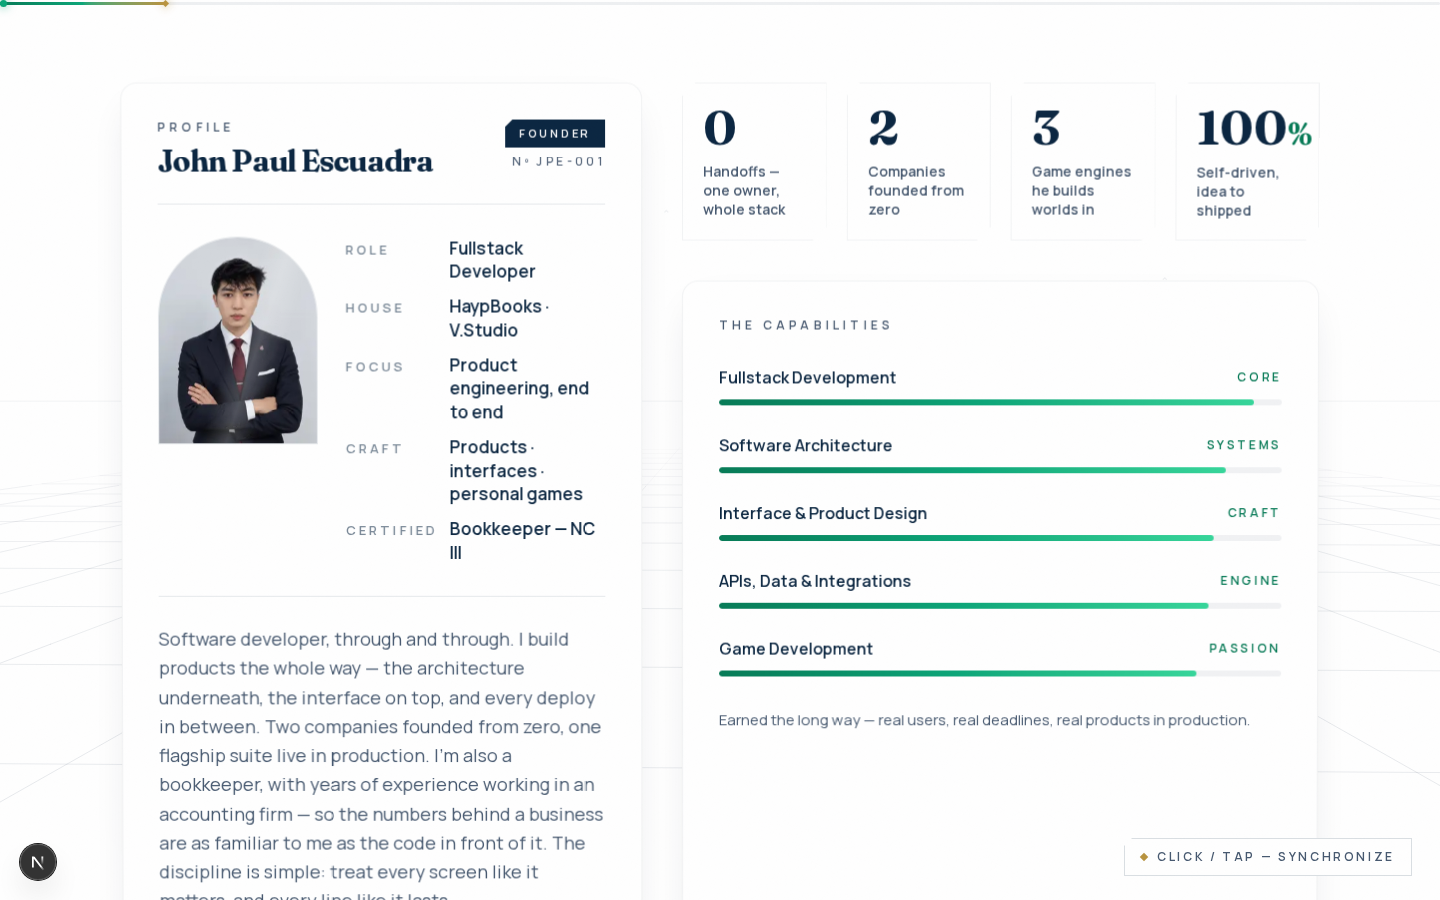
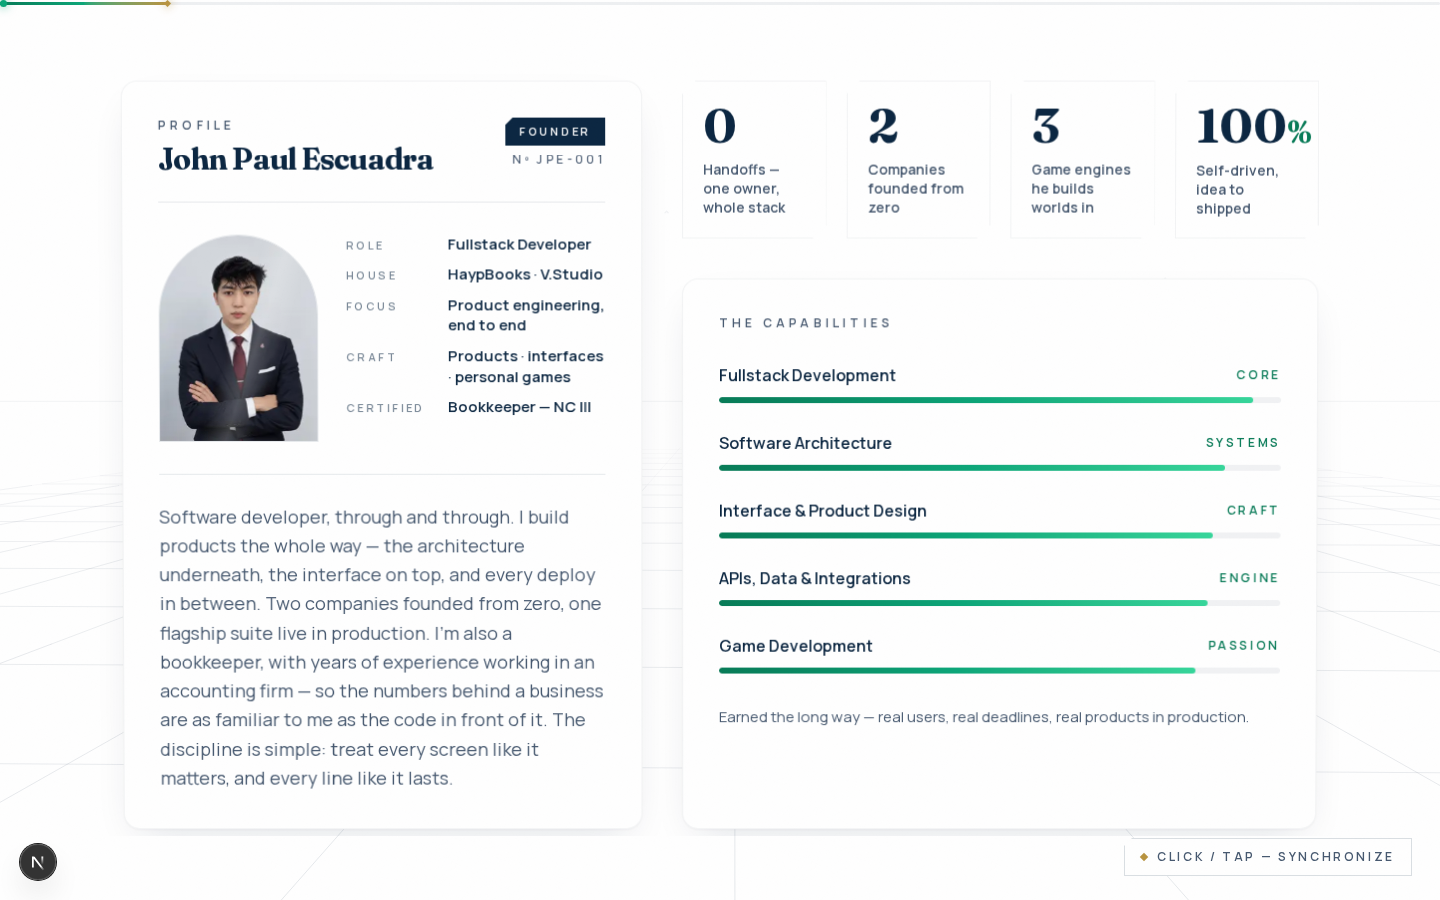
ad22dc8b-ed2c-4efe-a802-1ad4dd2b7cc3

diff --git a/src/components/portfolio/About.tsx b/src/components/portfolio/About.tsx
@@ -108,26 +108,26 @@ export default function About() {
             </div>
 
             {/* Spec sheet — fixed label column, every value starts at the same x */}
-            <dl className="grid w-full min-w-0 grid-cols-[88px_1fr] items-baseline gap-x-4 gap-y-3 font-body sm:flex-1">
+            <dl className="grid w-full min-w-0 grid-cols-[86px_1fr] items-baseline gap-x-4 gap-y-2.5 font-body sm:flex-1">
               <div className="contents">
-                <dt className="text-[13px] font-semibold tracking-[0.24em] text-ink/55">ROLE</dt>
-                <dd className="text-[17px] font-semibold leading-snug text-ink">Fullstack Developer</dd>
+                <dt className="text-[11px] font-semibold tracking-[0.22em] text-ink/55">ROLE</dt>
+                <dd className="text-[15px] font-semibold leading-snug text-ink">Fullstack Developer</dd>
               </div>
               <div className="contents">
-                <dt className="text-[13px] font-semibold tracking-[0.24em] text-ink/55">HOUSE</dt>
-                <dd className="text-[17px] font-semibold leading-snug text-ink">HaypBooks · V.Studio</dd>
+                <dt className="text-[11px] font-semibold tracking-[0.22em] text-ink/55">HOUSE</dt>
+                <dd className="text-[15px] font-semibold leading-snug text-ink">HaypBooks · V.Studio</dd>
               </div>
               <div className="contents">
-                <dt className="text-[13px] font-semibold tracking-[0.24em] text-ink/55">FOCUS</dt>
-                <dd className="text-[17px] font-semibold leading-snug text-ink">Product engineering, end to end</dd>
+                <dt className="text-[11px] font-semibold tracking-[0.22em] text-ink/55">FOCUS</dt>
+                <dd className="text-[15px] font-semibold leading-snug text-ink">Product engineering, end to end</dd>
               </div>
               <div className="contents">
-                <dt className="text-[13px] font-semibold tracking-[0.24em] text-ink/55">CRAFT</dt>
-                <dd className="text-[17px] font-semibold leading-snug text-ink">Products · interfaces · personal games</dd>
+                <dt className="text-[11px] font-semibold tracking-[0.22em] text-ink/55">CRAFT</dt>
+                <dd className="text-[15px] font-semibold leading-snug text-ink">Products · interfaces · personal games</dd>
               </div>
               <div className="contents">
-                <dt className="text-[13px] font-semibold tracking-[0.24em] text-ink/55">CERTIFIED</dt>
-                <dd className="text-[17px] font-semibold leading-snug text-ink">Bookkeeper — NC III</dd>
+                <dt className="text-[11px] font-semibold tracking-[0.22em] text-ink/55">CERTIFIED</dt>
+                <dd className="text-[15px] font-semibold leading-snug text-ink">Bookkeeper — NC III</dd>
               </div>
             </dl>
           </div>

diff --git a/worklog.md b/worklog.md
@@ -416,3 +416,20 @@ Verification:
 Stage Summary:
 - Dossier facts restored as an aligned spec sheet; story humbled to "I'm also a bookkeeper" + years-in-firm (numberless); NC III lives only in the CERTIFIED row
 - Privacy constraints intact (HaypBooks link only, no stack/repo, no Blender/video-editing)
+---
+Task ID: 19
+Agent: Super Z (main agent)
+Task: User feedback "reduce the size of the wordings for the ROLE/HOUSE/FOCUS/CRAFT/CERTIFIED sheet so it looks clean in the alignment"
+
+Work Log:
+- About.tsx spec sheet compacted: labels text-[13px] tracking-[0.24em] → text-[11px] tracking-[0.22em]; values text-[17px] → text-[15px]; row rhythm gap-y-3 → gap-y-2.5; label column 88px → 86px
+- Story paragraph and all other card elements unchanged
+
+Verification:
+- ESLint clean; dev 200; zero page errors at 1440/1100/390
+- DOM geometry: desktop value column now single x (448) and label column single x (346) — perfect alignment (previous 1px variance eliminated by the smaller glyphs); 5 rows; no overflow
+- VLM desktop+mobile: "small, clean, tightly aligned... tidier and more premium, not cramped... no wrapping, misalignment, or readability problems"
+
+Stage Summary:
+- Spec sheet is now compact 11px/15px with tighter rhythm — reads as a clean premium data column beside the portrait; all Task-18 wording decisions preserved
+- Privacy constraints intact (HaypBooks link only, no stack/repo, no Blender/video-editing)
